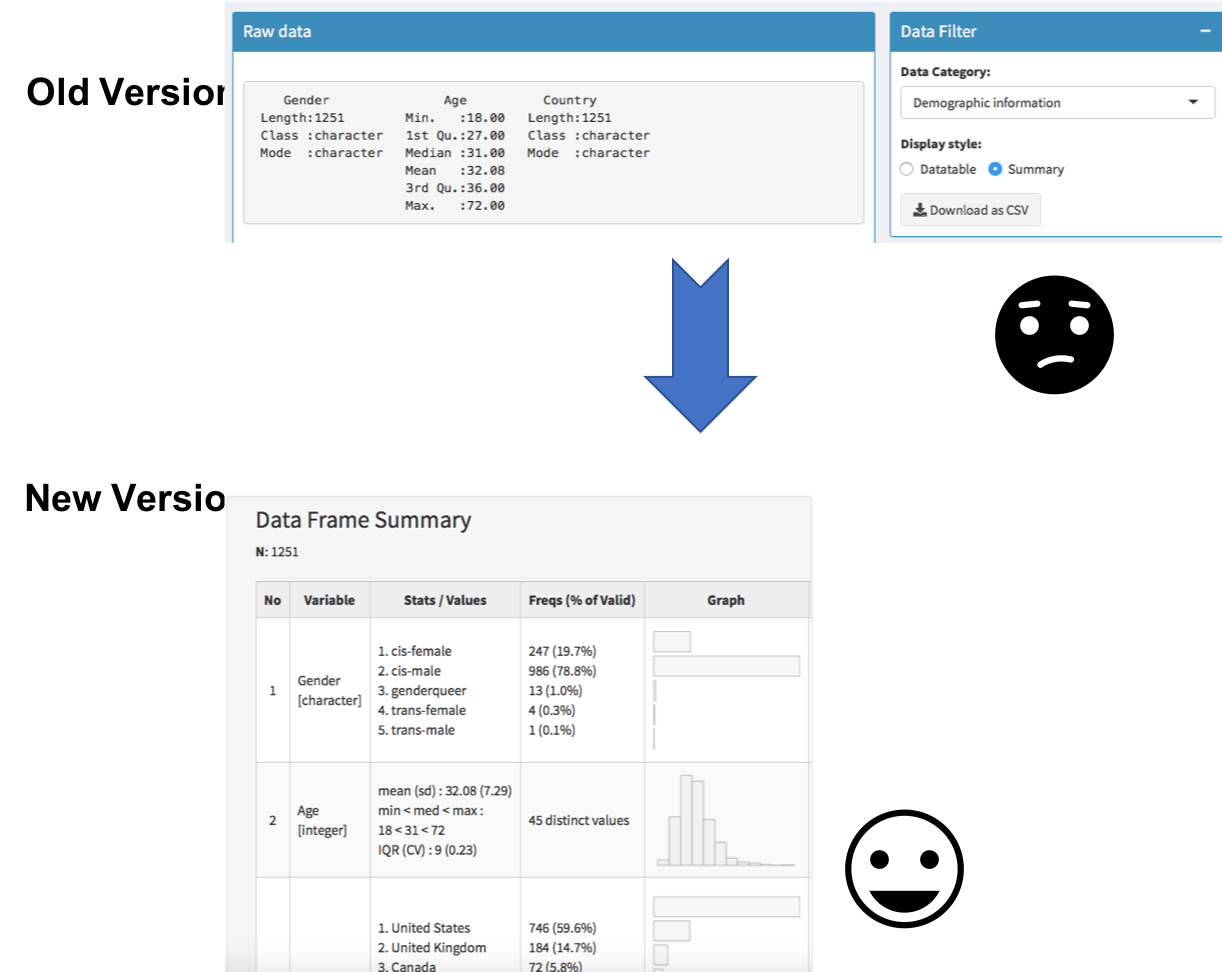
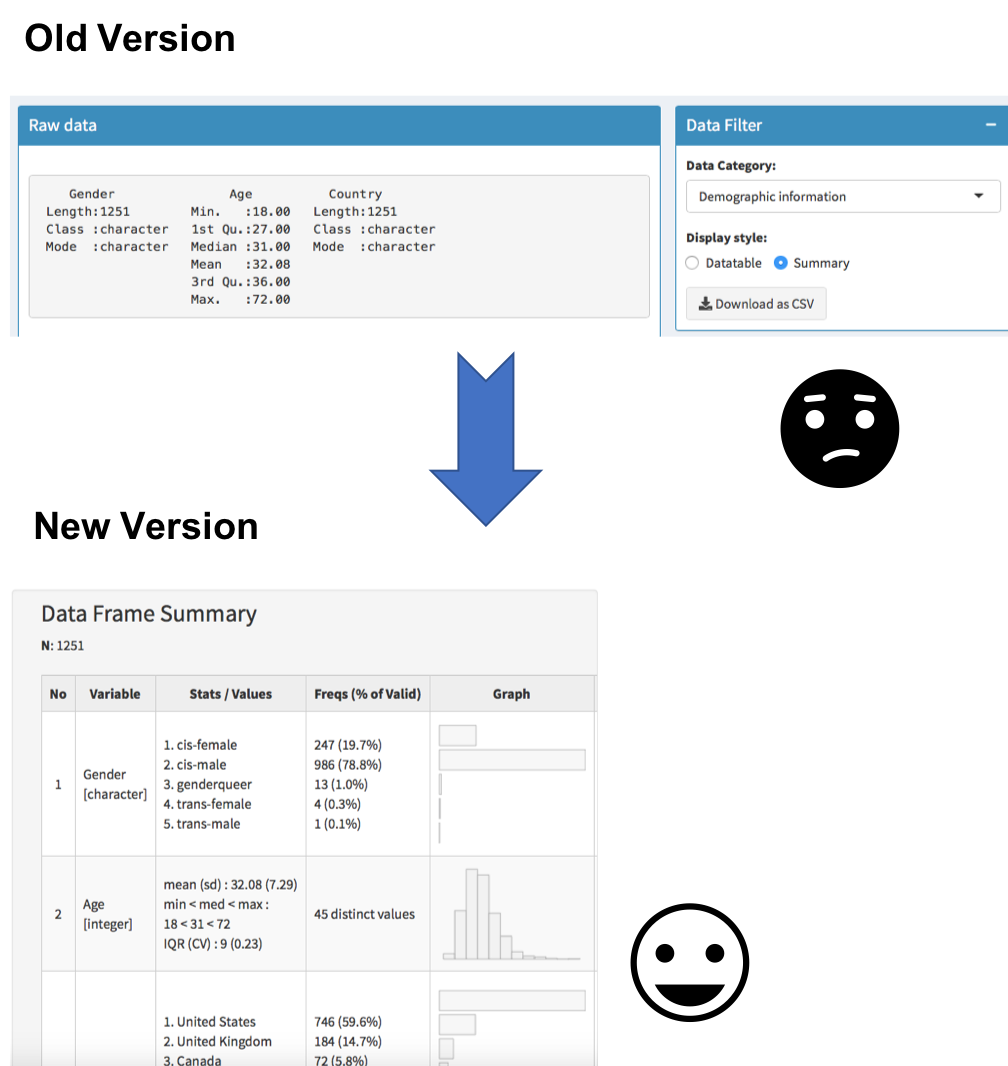
checked writeup4 and main reademe

diff --git a/docs/m4_writeup.md b/docs/m4_writeup.md
@@ -1,0 +1,113 @@
+# Milestone 4 Writeup
+
+Author: Chao Wang, Albert Yu
+
+## 1.0 Introduction 
+
+During the last milestone project, we have made a great improvement in our shiny App with several updates given the time limit. In this write-up, we discuss what we would do differently if we have another chance to start over. In the end, we also conclude the biggest challenges we encountered in making the final product.
+
+
+## 2.0 Changes Made
+
+#### 2.1 Change R-styled summary to a summary table.
+
+<div align="center">
+<img src="../imgs/change6.png" width="350" height="200" alt="table"/>
+</div>
+
+Rationale: the previous version of the summary is plain-data-focused. It is hard for non-technical users to understand. The new version of **Data Frame Summary** increases readability as well as offers more tabular visualization, which is more friendly to the general public.
+
+
+#### 2.2 Add notes on variable names.
+ 
+<div align="center">
+<img src="../imgs/change4.png" width="350" height="200" alt="table"/>
+</div>
+
+Even though we hide the variable selections in the pie chart display, it was still not very clear to users when and where they can apply variable selections. Hence, we added more notes to explain that variable selection is only applicable to bar charts.
+
+
+#### 2.3 Change download csv to download raw data as csv.
+
+<div align="center">
+<img src="../imgs/change2.png" width="350" height="200" alt="table"/>
+</div>
+
+Because users can choose either data table view or summary view, the “Download as CSV” may lead to some confusions which view is available for downloading. We changed the button label to “Download Raw Data as CSV” to clarify that only the survey result raw data can be saved as CSV.
+
+
+#### 2.4 Change "More info" to "project source/project home".
+
+<div align="center">
+<img src="../imgs/change5.png" width="350" height="200" alt="table"/>
+</div>
+
+In accordance with the TA’s feedback, “Project Home” is a better description for redirecting users to our GitHub repo.
+
+
+#### 2.5 Change the default plot color palette to a color-blind-friendly palette that matches the overall app design.
+
+<div align="center">
+<img src="../imgs/change9.png" width="350" height="200" alt="table"/>
+</div>
+
+To make our Shiny App even more user-friendly, we replaced the ggplot2 default color palettes with a color-blind-safe palette from Color Brewer package. The new color palette also matches the overall Shiny theme color.
+
+#### 2.6 Remove redundant material switch(Country).
+
+<div align="center">
+<img src="../imgs/change7.png" width="350" height="200" alt="table"/>
+</div>
+
+As per TA suggested, we removed the material switch as it is more or less redundant in our case.
+
+
+#### 2.7 Replace the warming message to a pop-up Shiny Alert.
+
+<div align="center">
+<img src="../imgs/change8.png" width="350" height="200" alt="table"/>
+</div>
+
+In our previous version, the warning message is displayed at the right bottom of the dashboard for only 1.5 seconds. In our newest update, we implemented a Shiny Alert in the middle of the page with 3 seconds duration. The bigger size and the better position allows users to be more alert that they need to change their invalid data selections.
+
+#### 2.8 Change font to avoid overlap with bar plot.
+
+<div align="center">
+<img src="../imgs/change3.png" width="350" height="200" alt="table"/>
+</div>
+
+We changed the title font from to American Typewriter to Arial to allow fair margin between the title and the graph. 
+
+#### 2.9 Change "Data Category" to a more intuitive label.
+
+<div align="center">
+<img src="../imgs/chang1.png" width="350" height="200" alt="table"/>
+</div>
+
+During a focus group test, we noticed that users don’t know how to use the “Data Category” button to select alternative reports. We replaced the previous label with “Reports” to better guide users. 
+
+
+
+## 3.0 If you were to make the app again from scratch, what would you do differently?
+
+We probably would choose another data set. This survey dataset only has categorical data that have little varieties. Suppose we choose a dataset with a time series component (we only have time stamps of the survey taken time, it make no sense to plot a timeline), we would be able to include visualization diversity into our app.
+
+Shiny is fast to learn, easy to deploy, we wish to use other languages like HTML, CSS, and Javascript to create our app next time. That way, we have more freedom and flexibility. It might be even more time consuming though.
+
+
+## 4.0 What were the greatest challenges you faced in creating the final product?
+
+Due to the heavy workload, we struggle to try out all the available Shiny widgets. Going forward, we would like to try all other widget options. 
+
+We would like to make our app more interactive. We really love the Shiny Alert package. It would be better to implement more animations in our app.
+
+If time allows, we may design our app based on shinydashboard Plus.
+
+The compatibility between ploty and ggplot2 was an issue. Plotly can’t render subtitle or captions from ggplot2. This limit us regarding what and where we'd place our graph. With better compatibility, we would be able to increase the margin between th graph title and the graph, adding side notes to explain the graph etc. 
+
+Overall, we are happy with what we have developed within such a short time frame. 
+
+
+## 5.0 Reference
+
+1. *shinyalert: Easily create pretty popup messages (modals) in Shiny*.\[online\] Available at:<https://deanattali.com/blog/shinyalert-package/>.\[Accessed 28 Jan. 2019\]

diff --git a/README.md b/README.md
@@ -34,7 +34,7 @@ Instructor : Vincenzo Coia
 |             |[Feedback to DSCI-532-wine-data](https://github.com/UBC-MDS/DSCI-532-wine-data/issues/10)|
 |             |[Writeup](https://github.com/UBC-MDS/Mental-Health-Analysis_Vis-App/blob/master/docs/m3_writeup.md)|
 |             |[Deployed Shiny App(2.0)](https://mru4913.shinyapps.io/Mental-Health-Analysis_Vis-App/)|
-|Milestone 4.0|[Writeup]()|
+|Milestone 4.0|[Writeup](https://github.com/UBC-MDS/Mental-Health-Analysis_Vis-App/blob/master/docs/m4_writeup.md)|
 |             |[Deployed Shiny App(2.1)](https://mru4913.shinyapps.io/Mental-Health-Analysis_Vis-App/)|
 
 # Data
